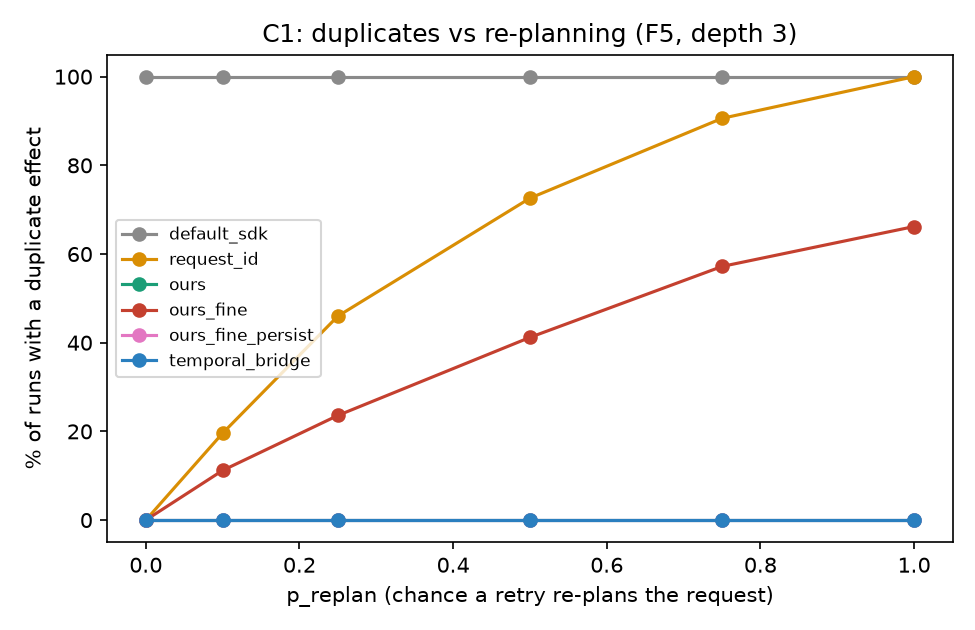
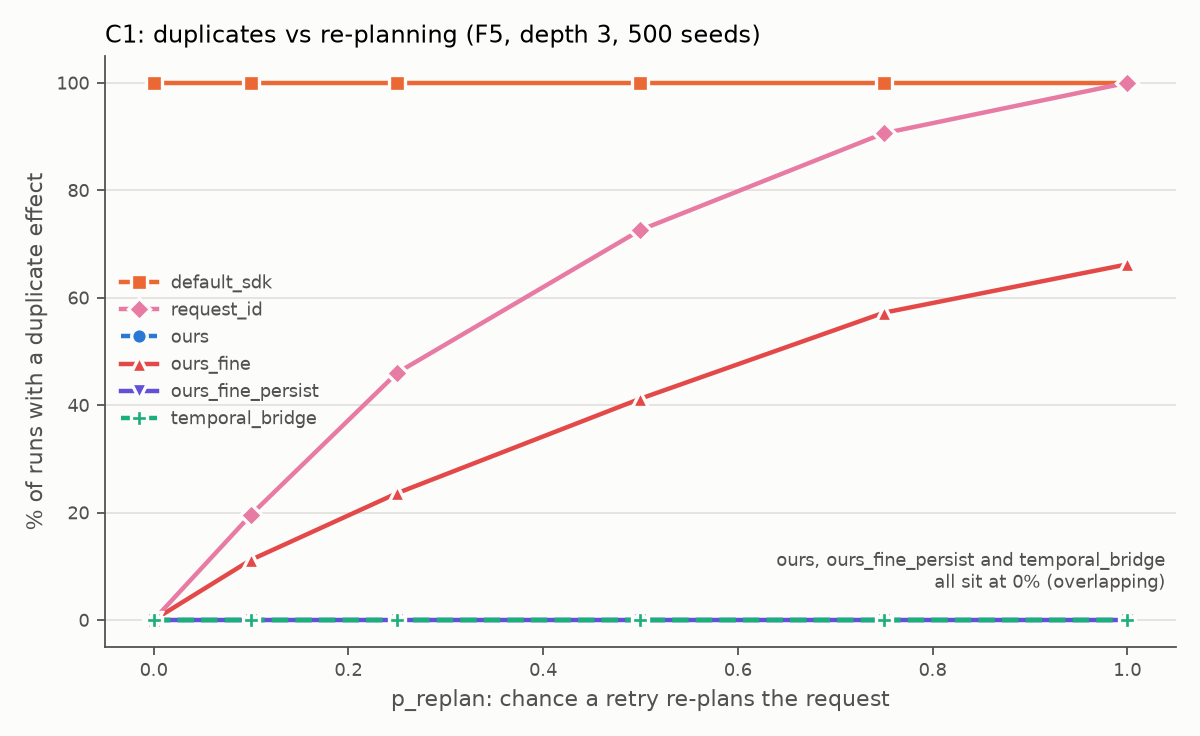
Redraw figures and add them to results and README

diff --git a/bench/figures.py b/bench/figures.py
@@ -1,0 +1,195 @@
+"""Figures for results/. Reads the CSVs only. Palette: validated categorical slots (fixed order).
+
+Colour is never the only channel: heatmap cells carry their value, lines carry markers and a
+legend. Two measures of different scale are drawn in separate panels, never on a dual axis.
+"""
+
+from __future__ import annotations
+
+from pathlib import Path
+
+import matplotlib
+
+matplotlib.use("Agg")
+import matplotlib.pyplot as plt
+from matplotlib.colors import LinearSegmentedColormap
+
+SURFACE, INK, INK2, GRID = "#fcfcfb", "#1a1a19", "#52514e", "#e3e2de"
+# categorical slots in fixed order: blue, orange, aqua, magenta, violet, red
+SERIES = {"default_sdk": "#eb6834", "request_id": "#e87ba4", "ours": "#2a78d6",
+          "ours_fine": "#e34948", "ours_fine_persist": "#6250d6", "temporal_bridge": "#1baf7a"}
+MARKERS = {"default_sdk": "s", "request_id": "D", "ours": "o", "ours_fine": "^",
+           "ours_fine_persist": "v", "temporal_bridge": "P"}
+SEQ = LinearSegmentedColormap.from_list("seq", ["#f4f8fd", "#9ec5f4", "#3987e5", "#184f95"])
+SC = ["F0_clean", "F1_crash_after_effect", "F2_receipt_lost", "F3_duplicate_delivery",
+      "F4_replica_failover", "F5_replan_on_replay", "F6_partition_transient",
+      "F6_partition_permanent", "F7_forged_receipt", "F8_upstream_abort"]
+SC_LABEL = ["F0\nclean", "F1\ncrash", "F2\nlost\nreceipt", "F3\ndup\ndelivery", "F4\nfailover",
+            "F5\nre-plan", "F6\npartition\n(transient)", "F6\npartition\n(permanent)",
+            "F7\nforged\nreceipt", "F8\nupstream\nabort"]
+SYS_ORDER = ["default_sdk", "request_id", "saga", "temporal_bridge", "ours_no_intents",
+             "ours_no_resolve", "digest_only_coarse", "digest_only_medium", "digest_only_fine",
+             "ours_coarse", "ours", "ours_fine", "ours_medium_persist", "ours_fine_persist"]
+
+
+def _style(ax) -> None:
+    ax.set_facecolor(SURFACE)
+    for s in ("top", "right"):
+        ax.spines[s].set_visible(False)
+    for s in ("left", "bottom"):
+        ax.spines[s].set_color(INK2)
+    ax.tick_params(colors=INK2, labelsize=8)
+    ax.yaxis.label.set_color(INK2)
+    ax.xaxis.label.set_color(INK2)
+    ax.title.set_color(INK)
+
+
+def _fig(*a, **k):
+    fig, ax = plt.subplots(*a, **k)
+    fig.patch.set_facecolor(SURFACE)
+    for x in (ax if hasattr(ax, "__iter__") else [ax]):
+        _style(x)
+    return fig, ax
+
+
+def pooled(rows, key, **flt):
+    sel = [r for r in rows if all(r[k] == v for k, v in flt.items())]
+    n = sum(float(r["n"]) for r in sel)
+    if key.endswith(("_mean", "_p50", "_p95")):
+        return sum(float(r[key]) * float(r["n"]) for r in sel) / n
+    return sum(float(r[key]) for r in sel) / n
+
+
+def heatmap(grid, key, title, path, cbar_label, cmap=SEQ) -> None:
+    systems = [s for s in SYS_ORDER if any(r["system"] == s for r in grid)]
+    data = [[100 * pooled(grid, key, system=s, scenario=sc) for sc in SC] for s in systems]
+    fig, ax = _fig(figsize=(11, 6.2))
+    im = ax.imshow(data, cmap=cmap, vmin=0, vmax=100, aspect="auto")
+    ax.set_xticks(range(len(SC)))
+    ax.set_xticklabels(SC_LABEL, fontsize=7.5)
+    ax.set_yticks(range(len(systems)))
+    ax.set_yticklabels(systems, fontsize=8)
+    ax.xaxis.tick_top()
+    for i, row in enumerate(data):
+        for j, v in enumerate(row):
+            ax.text(j, i, f"{v:.0f}" if v == int(v) else f"{v:.1f}", ha="center", va="center",
+                    fontsize=7.5, color="white" if v > 55 else INK)
+    for s in ax.spines.values():
+        s.set_visible(False)
+    ax.set_title(title, pad=44, loc="left", fontsize=11)
+    cb = fig.colorbar(im, ax=ax, fraction=0.025, pad=0.02)
+    cb.set_label(cbar_label, color=INK2, fontsize=8)
+    cb.ax.tick_params(colors=INK2, labelsize=8)
+    fig.tight_layout()
+    fig.savefig(path, dpi=160, facecolor=SURFACE)
+    plt.close(fig)
+
+
+def sweep(rows, path) -> None:
+    fig, ax = _fig(figsize=(7.5, 4.6))
+    ax.grid(axis="y", color=GRID, lw=0.8)
+    ax.set_axisbelow(True)
+    for s, color in SERIES.items():
+        pts = sorted((float(r["p_replan"]), 100 * float(r["dup_runs"]) / float(r["n"]))
+                     for r in rows if r["system"] == s)
+        if not pts:
+            continue
+        ax.plot([p for p, _ in pts], [v for _, v in pts], color=color, lw=2,
+                marker=MARKERS[s], ms=7, mec=SURFACE, mew=1.5, label=s,
+                ls="--" if s in ("ours", "temporal_bridge") else "-")
+    ax.set_xlabel("p_replan: chance a retry re-plans the request")
+    ax.set_ylabel("% of runs with a duplicate effect")
+    ax.set_title("C1: duplicates vs re-planning (F5, depth 3, 500 seeds)", loc="left", fontsize=11)
+    ax.text(0.99, 0.10, "ours, ours_fine_persist and temporal_bridge\nall sit at 0% (overlapping)",
+            transform=ax.transAxes, ha="right", fontsize=8, color=INK2)
+    ax.legend(frameon=False, fontsize=8, labelcolor=INK2, loc="center left")
+    fig.tight_layout()
+    fig.savefig(path, dpi=160, facecolor=SURFACE)
+    plt.close(fig)
+
+
+def rq4(rows, path) -> None:
+    fig, ax = _fig(figsize=(7, 4.4))
+    ax.grid(axis="y", color=GRID, lw=0.8)
+    ax.set_axisbelow(True)
+    x = range(len(rows))
+    b1 = ax.bar([i - 0.2 for i in x], [100 * float(r["false_dedup_rate"]) for r in rows], 0.38,
+                color="#2a78d6", label="false dedup: legitimate effect blocked")
+    b2 = ax.bar([i + 0.2 for i in x], [100 * float(r["missed_dedup_rate"]) for r in rows], 0.38,
+                color="#eb6834", label="missed dedup: re-planned duplicate ran")
+    for bars in (b1, b2):
+        for b in bars:
+            ax.text(b.get_x() + b.get_width() / 2, b.get_height() + 1.5,
+                    f"{b.get_height():.0f}", ha="center", fontsize=8, color=INK2)
+    ax.set_xticks(list(x))
+    ax.set_xticklabels([r["policy"] for r in rows])
+    ax.set_ylim(0, 112)
+    ax.set_ylabel("%")
+    ax.set_title("RQ4: digest granularity trade-off", loc="left", fontsize=11)
+    ax.legend(frameon=False, fontsize=8, labelcolor=INK2, loc="upper center")
+    fig.tight_layout()
+    fig.savefig(path, dpi=160, facecolor=SURFACE)
+    plt.close(fig)
+
+
+def overhead(grid, path) -> None:
+    systems = ["default_sdk", "request_id", "saga", "temporal_bridge", "ours",
+               "ours_fine_persist"]
+    base_m = pooled(grid, "msgs_mean", system="default_sdk", scenario="F0_clean")
+    base_b = pooled(grid, "bytes_mean", system="default_sdk", scenario="F0_clean")
+    panels = [
+        ("Messages per chain, fault-free (x default SDK)", base_m, "msgs_mean"),
+        ("Bytes per chain, fault-free (x default SDK)", base_b, "bytes_mean"),
+    ]
+    fig, axes = _fig(1, 2, figsize=(10.5, 4.2))
+    for ax, (title, base, key) in zip(axes, panels, strict=True):
+        ax.grid(axis="x", color=GRID, lw=0.8)
+        ax.set_axisbelow(True)
+        vals = [pooled(grid, key, system=s, scenario="F0_clean") / base for s in systems]
+        ax.barh(range(len(systems)), vals, 0.55, color="#2a78d6")
+        for i, v in enumerate(vals):
+            ax.text(v + max(vals) * 0.015, i, f"{v:.2f}x", va="center", fontsize=8, color=INK2)
+        ax.set_yticks(range(len(systems)))
+        ax.set_yticklabels(systems, fontsize=8)
+        ax.invert_yaxis()
+        ax.set_xlim(0, max(vals) * 1.18)
+        ax.set_title(title, loc="left", fontsize=10)
+    fig.suptitle("C4: overhead (toy payload is about 40 bytes, so byte ratios are inflated)",
+                 x=0.01, ha="left", fontsize=10, color=INK2)
+    fig.tight_layout()
+    fig.savefig(path, dpi=160, facecolor=SURFACE)
+    plt.close(fig)
+
+
+def fault_cost(grid, path) -> None:
+    systems = ["default_sdk", "request_id", "saga", "temporal_bridge", "ours"]
+    scs = [("F0_clean", "F0 clean"), ("F1_crash_after_effect", "F1 crash"),
+           ("F5_replan_on_replay", "F5 re-plan")]
+    fig, axes = _fig(1, 3, figsize=(11, 3.8), sharey=True)
+    for ax, (sc, lab) in zip(axes, scs, strict=True):
+        ax.grid(axis="x", color=GRID, lw=0.8)
+        ax.set_axisbelow(True)
+        vals = [pooled(grid, "msgs_mean", system=s, scenario=sc) for s in systems]
+        ax.barh(range(len(systems)), vals, 0.55, color="#2a78d6")
+        for i, v in enumerate(vals):
+            ax.text(v + 0.5, i, f"{v:.1f}", va="center", fontsize=8, color=INK2)
+        ax.set_yticks(range(len(systems)))
+        ax.set_yticklabels(systems, fontsize=8)
+        ax.invert_yaxis()
+        ax.set_xlim(0, 45)
+        ax.set_title(f"{lab}: mean messages per chain", loc="left", fontsize=9)
+    fig.tight_layout()
+    fig.savefig(path, dpi=160, facecolor=SURFACE)
+    plt.close(fig)
+
+
+def make_all(grid, sweep_rows, rq4_rows, figs: Path) -> None:
+    figs.mkdir(parents=True, exist_ok=True)
+    heatmap(grid, "dup_runs", "% of runs with a duplicate effect (500 seeds x 6 shapes per cell)",
+            figs / "duplicates_by_scenario.png", "% runs with duplicate")
+    heatmap(grid, "completed", "% of runs that completed (quarantined or aborted chains do not count)",
+            figs / "completion_by_scenario.png", "% runs completed")
+    sweep(sweep_rows, figs / "c1_replan_sweep.png")
+    rq4(rq4_rows, figs / "rq4_granularity.png")
+    overhead(grid, figs / "c4_overhead.png")
+    fault_cost(grid, figs / "c4_cost_under_faults.png")

diff --git a/bench/metrics.py b/bench/metrics.py
@@ -9,10 +9,7 @@ from __future__ import annotations
 import csv
 from pathlib import Path
 
-import matplotlib
-
-matplotlib.use("Agg")
-import matplotlib.pyplot as plt
+from bench import figures
 
 RESULTS = Path(__file__).resolve().parent.parent / "results"
 FIGS = RESULTS / "figs"
@@ -47,72 +44,6 @@ def md_table(head: list[str], body: list[list[str]]) -> str:
     out = ["| " + " | ".join(head) + " |", "|" + "---|" * len(head)]
     out += ["| " + " | ".join(r) + " |" for r in body]
     return "\n".join(out)
-
-
-def fig_duplicates(grid: list[dict]) -> None:
-    fig, ax = plt.subplots(figsize=(10, 4.2))
-    w = 0.16
-    for i, s in enumerate(MAIN):
-        ys = [100 * pooled(grid, "dup_runs", system=s, scenario=sc) for sc in ORDER_SC]
-        ax.bar([x + (i - 2) * w for x in range(len(ORDER_SC))], ys, w, label=s,
-               color=COLORS[s])
-    ax.set_xticks(range(len(ORDER_SC)))
-    ax.set_xticklabels([s.split("_")[0] + ("-perm" if "permanent" in s else "")
-                        for s in ORDER_SC])
-    ax.set_ylabel("% of runs with a duplicate effect")
-    ax.set_title("Duplicate effects by scenario (pooled over depth and fan-out)")
-    ax.set_ylim(0, 118)
-    ax.legend(ncol=5, fontsize=8, loc="upper center")
-    fig.tight_layout()
-    fig.savefig(FIGS / "duplicates_by_scenario.png", dpi=150)
-    plt.close(fig)
-
-
-def fig_sweep(sweep: list[dict]) -> None:
-    fig, ax = plt.subplots(figsize=(6.5, 4.2))
-    for s in dict.fromkeys(r["system"] for r in sweep):
-        rows = sorted((r for r in sweep if r["system"] == s), key=lambda r: float(r["p_replan"]))
-        ax.plot([float(r["p_replan"]) for r in rows],
-                [100 * num(r["dup_runs"]) / num(r["n"]) for r in rows], marker="o",
-                label=s, color=COLORS.get(s))
-    ax.set_xlabel("p_replan (chance a retry re-plans the request)")
-    ax.set_ylabel("% of runs with a duplicate effect")
-    ax.set_title("C1: duplicates vs re-planning (F5, depth 3)")
-    ax.legend(fontsize=8)
-    fig.tight_layout()
-    fig.savefig(FIGS / "c1_replan_sweep.png", dpi=150)
-    plt.close(fig)
-
-
-def fig_rq4(rq4: list[dict]) -> None:
-    fig, ax = plt.subplots(figsize=(6.5, 4.2))
-    x = range(len(rq4))
-    ax.bar([i - 0.2 for i in x], [100 * num(r["false_dedup_rate"]) for r in rq4], 0.4,
-           label="false dedup (legit effect blocked)", color="#d98e04")
-    ax.bar([i + 0.2 for i in x], [100 * num(r["missed_dedup_rate"]) for r in rq4], 0.4,
-           label="missed dedup (re-planned duplicate ran)", color="#c4402f")
-    ax.set_xticks(list(x))
-    ax.set_xticklabels([r["policy"] for r in rq4])
-    ax.set_ylabel("%")
-    ax.set_title("RQ4: digest granularity trade-off")
-    ax.legend(fontsize=8)
-    fig.tight_layout()
-    fig.savefig(FIGS / "rq4_granularity.png", dpi=150)
-    plt.close(fig)
-
-
-def fig_overhead(grid: list[dict]) -> None:
-    fig, ax = plt.subplots(figsize=(6.5, 4.2))
-    systems = ("default_sdk", "request_id", "saga", "temporal_bridge", "ours", "ours_fine_persist")
-    base = pooled(grid, "msgs_mean", system="default_sdk", scenario="F0_clean")
-    ys = [pooled(grid, "msgs_mean", system=s, scenario="F0_clean") / base for s in systems]
-    ax.bar(systems, ys, color=[COLORS.get(s, "#555") for s in systems])
-    ax.set_ylabel("messages / default SDK (clean run)")
-    ax.set_title("C4: message overhead, no faults")
-    plt.setp(ax.get_xticklabels(), rotation=25, ha="right", fontsize=8)
-    fig.tight_layout()
-    fig.savefig(FIGS / "c4_overhead.png", dpi=150)
-    plt.close(fig)
 
 
 def tables(grid: list[dict], sweep: list[dict], rq4: list[dict]) -> str:
@@ -181,12 +112,8 @@ def tables(grid: list[dict], sweep: list[dict], rq4: list[dict]) -> str:
 
 
 def main() -> None:
-    FIGS.mkdir(parents=True, exist_ok=True)
     grid, sweep, rq4 = load("grid.csv"), load("c1_replan_sweep.csv"), load("rq4_granularity.csv")
-    fig_duplicates(grid)
-    fig_sweep(sweep)
-    fig_rq4(rq4)
-    fig_overhead(grid)
+    figures.make_all(grid, sweep, rq4, FIGS)
     (RESULTS / "tables.md").write_text(tables(grid, sweep, rq4), encoding="utf-8")
 
 

diff --git a/results/summary.md b/results/summary.md
@@ -14,6 +14,8 @@ duplicate at p_replan 0 / 0.1 / 0.25 / 0.5 / 0.75 / 1.0 (`c1_replan_sweep.png`).
 every run of F4 (replica failover) regardless of re-planning. The default SDK duplicates on every
 retry scenario (F1 to F6).
 
+![Duplicates vs p_replan](figs/c1_replan_sweep.png)
+
 **C2. Ours has zero duplicate and zero lost effects on F1 to F6: SUPPORTED, with three conditions.**
 - With coarse or medium digests: 0 duplicates and 0 lost effects on F1 to F6 in every cell.
 - With a fine digest and no plan persistence, C2 FAILS on F5: `ours_fine` duplicates in 41.1% of
@@ -22,6 +24,8 @@ retry scenario (F1 to F6).
   beyond the guide, found by this evaluation.
 - Under a permanent resolve partition (F6 permanent) there are 0 duplicates and 0 lost effects
   because every run is quarantined (100%) and none completes. Safety holds, availability does not.
+
+![Duplicate effects by system and scenario](figs/duplicates_by_scenario.png)
 
 **C3. Ours matches the Temporal upper bound on correctness without a shared control plane:
 PARTIALLY SUPPORTED.**
@@ -44,6 +48,10 @@ No bound was fixed before running, so none is claimed.
 - Persisted plans store about 685 extra bytes per chain.
 - Latency is not measured. Messages per run (p50/p95) are used as a proxy (D30).
 
+![Overhead](figs/c4_overhead.png)
+
+![Cost under faults](figs/c4_cost_under_faults.png)
+
 ## Research questions
 
 - **RQ1** (duplicates and lost effects vs baselines): `duplicates_by_scenario.png`, tables in
@@ -52,11 +60,15 @@ No bound was fixed before running, so none is claimed.
   do not duplicate.
 - **RQ2** (what resolveIntent buys): `ours_no_resolve` never duplicates but quarantines every
   in-doubt call (0% completion on F1, F2, F4, F5, F6). `resolveIntent` is what restores completion.
+![Completion by system and scenario](figs/completion_by_scenario.png)
+
 - **RQ3** (non-deterministic re-execution): the C1 sweep and the fine-digest result above.
 - **RQ4** (digest granularity), `rq4_granularity.png`: coarse 48.0% false dedup / 0% missed;
   medium on amount only 19.9% / 0%; medium on the workload's true identity fields 0% / 0%; fine
   0% / 100%. The "right" medium policy matches the workload by construction (D27), so this shows
   the trade-off shape only.
+
+![RQ4 granularity](figs/rq4_granularity.png)
 
 ## Also observed
 

diff --git a/README.md b/README.md
@@ -59,6 +59,21 @@ Claims under test (not assumed): C1 request-ID dedup duplicates grow with re-pla
 122 tests pass. Results are simulation results; see `results/summary.md` for which claims hold and the limits.
 Regenerate with `python -m bench.run all` then `python -m bench.metrics`.
 
+## Results
+
+Simulation results (500 seeds per cell). Claims, numbers and limits are in
+[`results/summary.md`](results/summary.md); all tables are in [`results/tables.md`](results/tables.md).
+
+![Duplicate effects by system and scenario](results/figs/duplicates_by_scenario.png)
+
+![Duplicates vs p_replan](results/figs/c1_replan_sweep.png)
+
+![RQ4 granularity](results/figs/rq4_granularity.png)
+
+Overhead and completion figures: [`overhead`](results/figs/c4_overhead.png),
+[`cost under faults`](results/figs/c4_cost_under_faults.png),
+[`completion`](results/figs/completion_by_scenario.png).
+
 ## Repository layout
 
 ```
